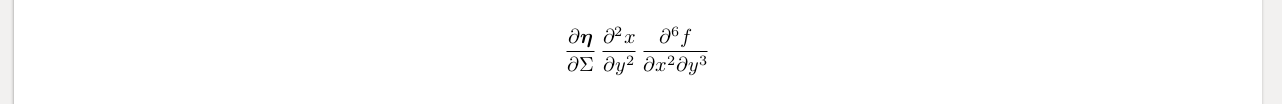
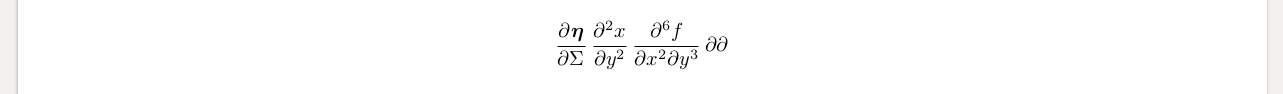
Added more examples.

Changed region(s): [[0.4368, 0.2128, 0.5928, 0.7234]]

diff --git a/README.md b/README.md
@@ -212,7 +212,7 @@ Math { equation { od x y 1 od x y 3 od a b 5 od omega psi 4 } }
 
 ```
 body {
-Math { equation { pd #eta Sigma 1 pd x y 2 pdMix f 6 x 2 y 3 } }
+Math { equation { pd #eta Sigma 1 pd x y 2 pdMix f 6 x 2 y 3 curlyd curlyd } }
 }
 ```
 
@@ -286,6 +286,34 @@ Math { equation {
 
 ![matrices](examples/matrices.png)
 
+### Trig symbols
+
+body {
+Math { equation { sin cos tan sinh cosh tanh } }
+}
+
+![trig](trig.png)
+
+### Set symbols
+
+```
+body {
+math { in notin owns subset subset= superset superset= intersect empty diff }
+}
+```
+
+![set](examples/set.png)
+
+### Other mathematical symbols
+
+```
+body {
+math { exp log ln * star <= >= ~= != mod max min +- }
+}
+```
+
+![otherMath](examples/otherMath.png)
+
 ## Citations
 
 This is for referencing a source.  The details of the reference should be kept in a file called "ref.bib" stored in the same folder as the main trux file.  Its contents is in standard Biblatex format, for example
@@ -315,7 +343,7 @@ This is for referencing a source.  The details of the reference should be kept i
 }
 ```
 
-taken from [here](https://en.wikibooks.org/wiki/LaTeX/Bibliographies_with_biblatex_and_biber#A_simple_example).
+taken from [here](https://en.wikibooks.org/wiki/LaTeX/Bibliographies_with_biblatex_and_biber).
 
 The trux document can refer to these references like this:
 
